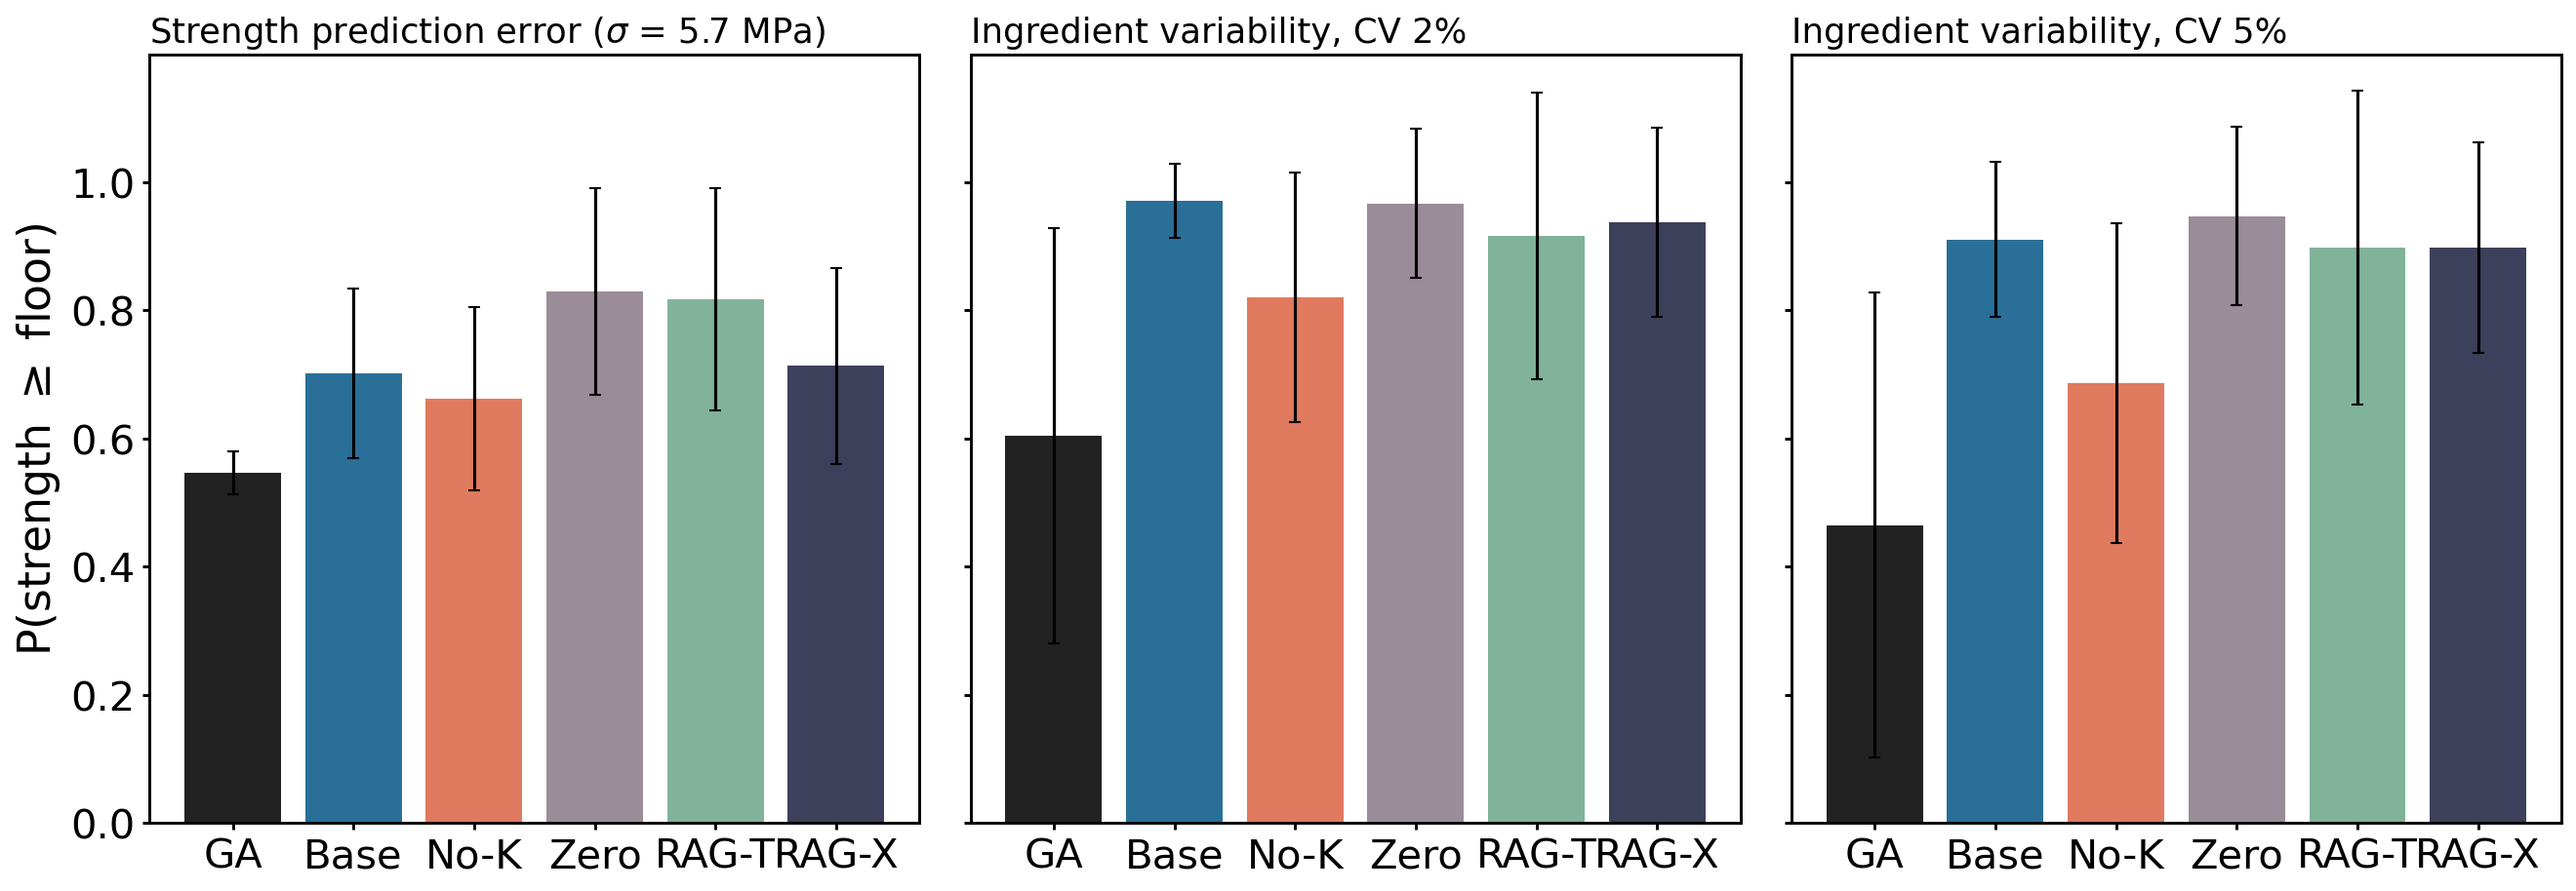
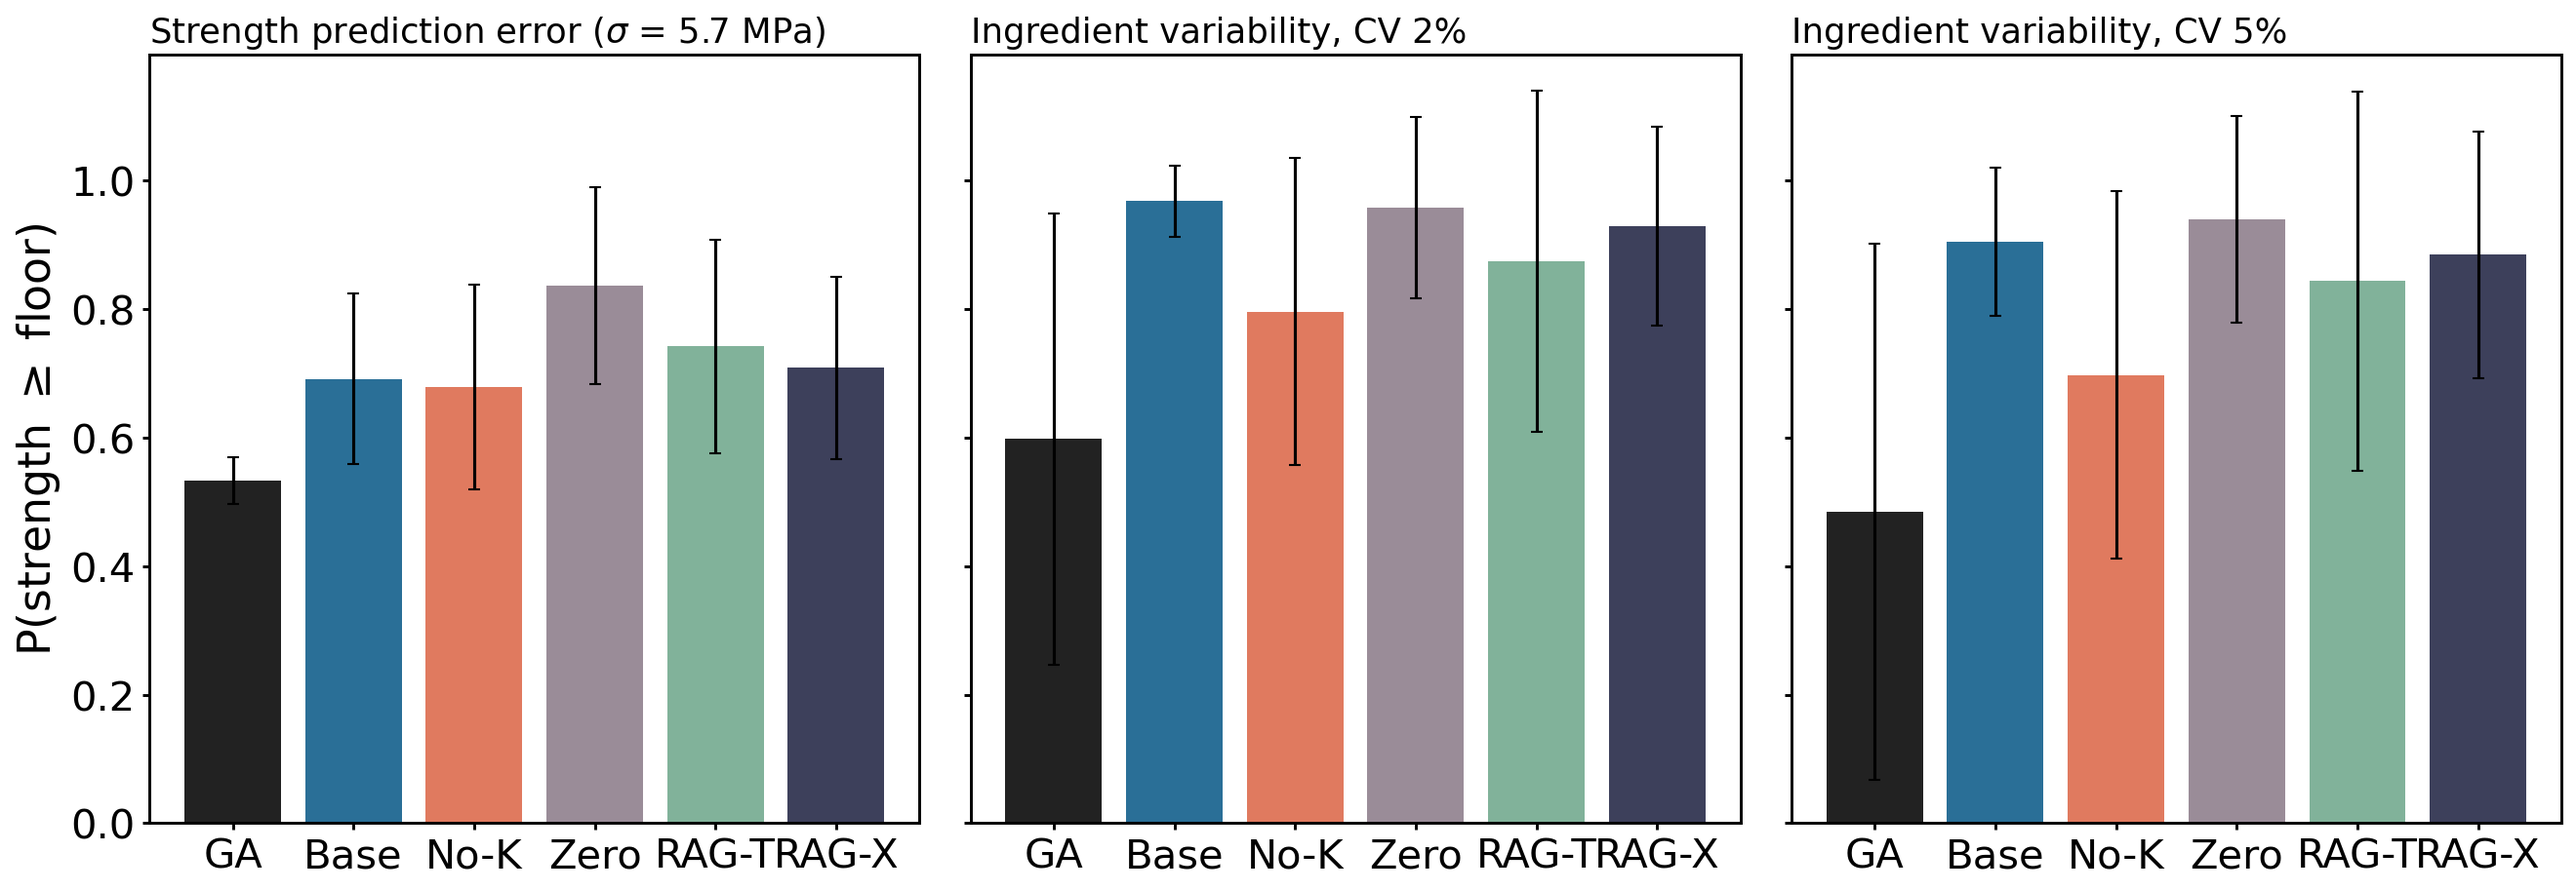
Sensitivity analysis: prediction error, ingredient variability, GWP factor error (no-chloride scenarios, experiment-time model)

diff --git a/utils/sensitivity.py b/utils/sensitivity.py
@@ -33,8 +33,8 @@ CVS = [0.02, 0.05]
 GWP_DELTAS = [0.10, 0.20]
 
 
-def chained_sigma(spec):
-    df = pd.read_excel(oc.DATASET_PATH, sheet_name="mix_level")
+def chained_sigma(spec, dataset_path=oc.DATASET_PATH):
+    df = pd.read_excel(dataset_path, sheet_name="mix_level")
     _, te = train_test_split(df.index, test_size=0.2, random_state=42)
     d = df.loc[te].dropna(subset=["28day"])
     res = d["28day"].values - oc.predict_batch(spec, d)["pred_28day"].values
@@ -43,12 +43,12 @@ def chained_sigma(spec):
 
 def solutions():
     rows = []
-    for scn in sorted(os.listdir(os.path.join(RES, "ga"))):
+    for scn in sorted(s for s in os.listdir(os.path.join(RES, "ga")) if s.endswith("_nodur")):
         f = os.path.join(RES, "ga", scn, "reference.json")
         if os.path.exists(f):
             rows.append({"scenario": scn, "method": "GA", "run": 0, "mix": json.load(open(f))["reference"]})
     base = os.path.join(RES, "llm")
-    for scn in sorted(os.listdir(base)):
+    for scn in sorted(s for s in os.listdir(base) if s.endswith("_nodur")):
         for m in sorted(os.listdir(os.path.join(base, scn))):
             for run in sorted(os.listdir(os.path.join(base, scn, m))):
                 f = os.path.join(base, scn, m, run, "trajectory.csv")
@@ -62,13 +62,16 @@ def solutions():
 def main():
     ap = argparse.ArgumentParser()
     ap.add_argument("--samples", type=int, default=1000)
+    ap.add_argument("--strength-pkl", default=oc.STRENGTH_PKL, help="strength model used in the experiments")
+    ap.add_argument("--dataset", default=oc.DATASET_PATH, help="dataset with the column labels the strength model was trained on")
     a = ap.parse_args()
-    spec = oc.Spec()
-    sigma = chained_sigma(spec)
+    spec = oc.Spec(strength_pkl=a.strength_pkl)
+    sigma = chained_sigma(spec, a.dataset)
     print(f"sigma28 (chained residual std) = {sigma:.2f} MPa")
     rng = np.random.default_rng(0)
     sols = solutions()
     ga_gwp = {s["scenario"]: s["mix"]["gwp"] for s in sols if s["method"] == "GA"}
+    ga_mix = {s["scenario"]: np.array([float(s["mix"][v]) for v in oc.RAW_VARS]) for s in sols if s["method"] == "GA"}
     out = []
     for s in sols:
         smin = int(s["scenario"].split("_")[0][1:])
@@ -89,16 +92,21 @@ def main():
                 row[f"p_chloride_ok_cv{int(cv * 100)}"] = float((pr["chloride_prob"] >= spec.min_pass_prob).mean())
         for d in GWP_DELTAS:
             f = np.array([spec.gwp_factors[v] for v in oc.RAW_VARS])
-            g = (base * f * rng.uniform(1 - d, 1 + d, size=(a.samples, len(base)))).sum(axis=1)
+            F = f * rng.uniform(1 - d, 1 + d, size=(a.samples, len(base)))      # same factors for LLM and GA
+            g = (base * F).sum(axis=1)
+            g_ga = (ga_mix[s["scenario"]] * F).sum(axis=1)
+            ogr = g / g_ga - 1
             row[f"gwp_mean_d{int(d * 100)}"] = float(g.mean())
             row[f"gwp_std_d{int(d * 100)}"] = float(g.std())
+            row[f"ogr_mean_d{int(d * 100)}"] = float(ogr.mean())
+            row[f"ogr_std_d{int(d * 100)}"] = float(ogr.std())
         row["ga_gwp"] = ga_gwp.get(s["scenario"], np.nan)
         out.append(row)
     d = os.path.join(RES, "sensitivity")
     os.makedirs(d, exist_ok=True)
     df = pd.DataFrame(out)
     df.to_csv(os.path.join(d, "solutions.csv"), index=False)
-    cols = [c for c in df.columns if c.startswith(("p_", "gwp_std"))]
+    cols = [c for c in df.columns if c.startswith(("p_", "gwp_std", "ogr_"))]
     summ = df.groupby(["scenario", "method"])[cols].mean().round(3)
     summ.to_csv(os.path.join(d, "summary.csv"))
     print(summ.to_string())
